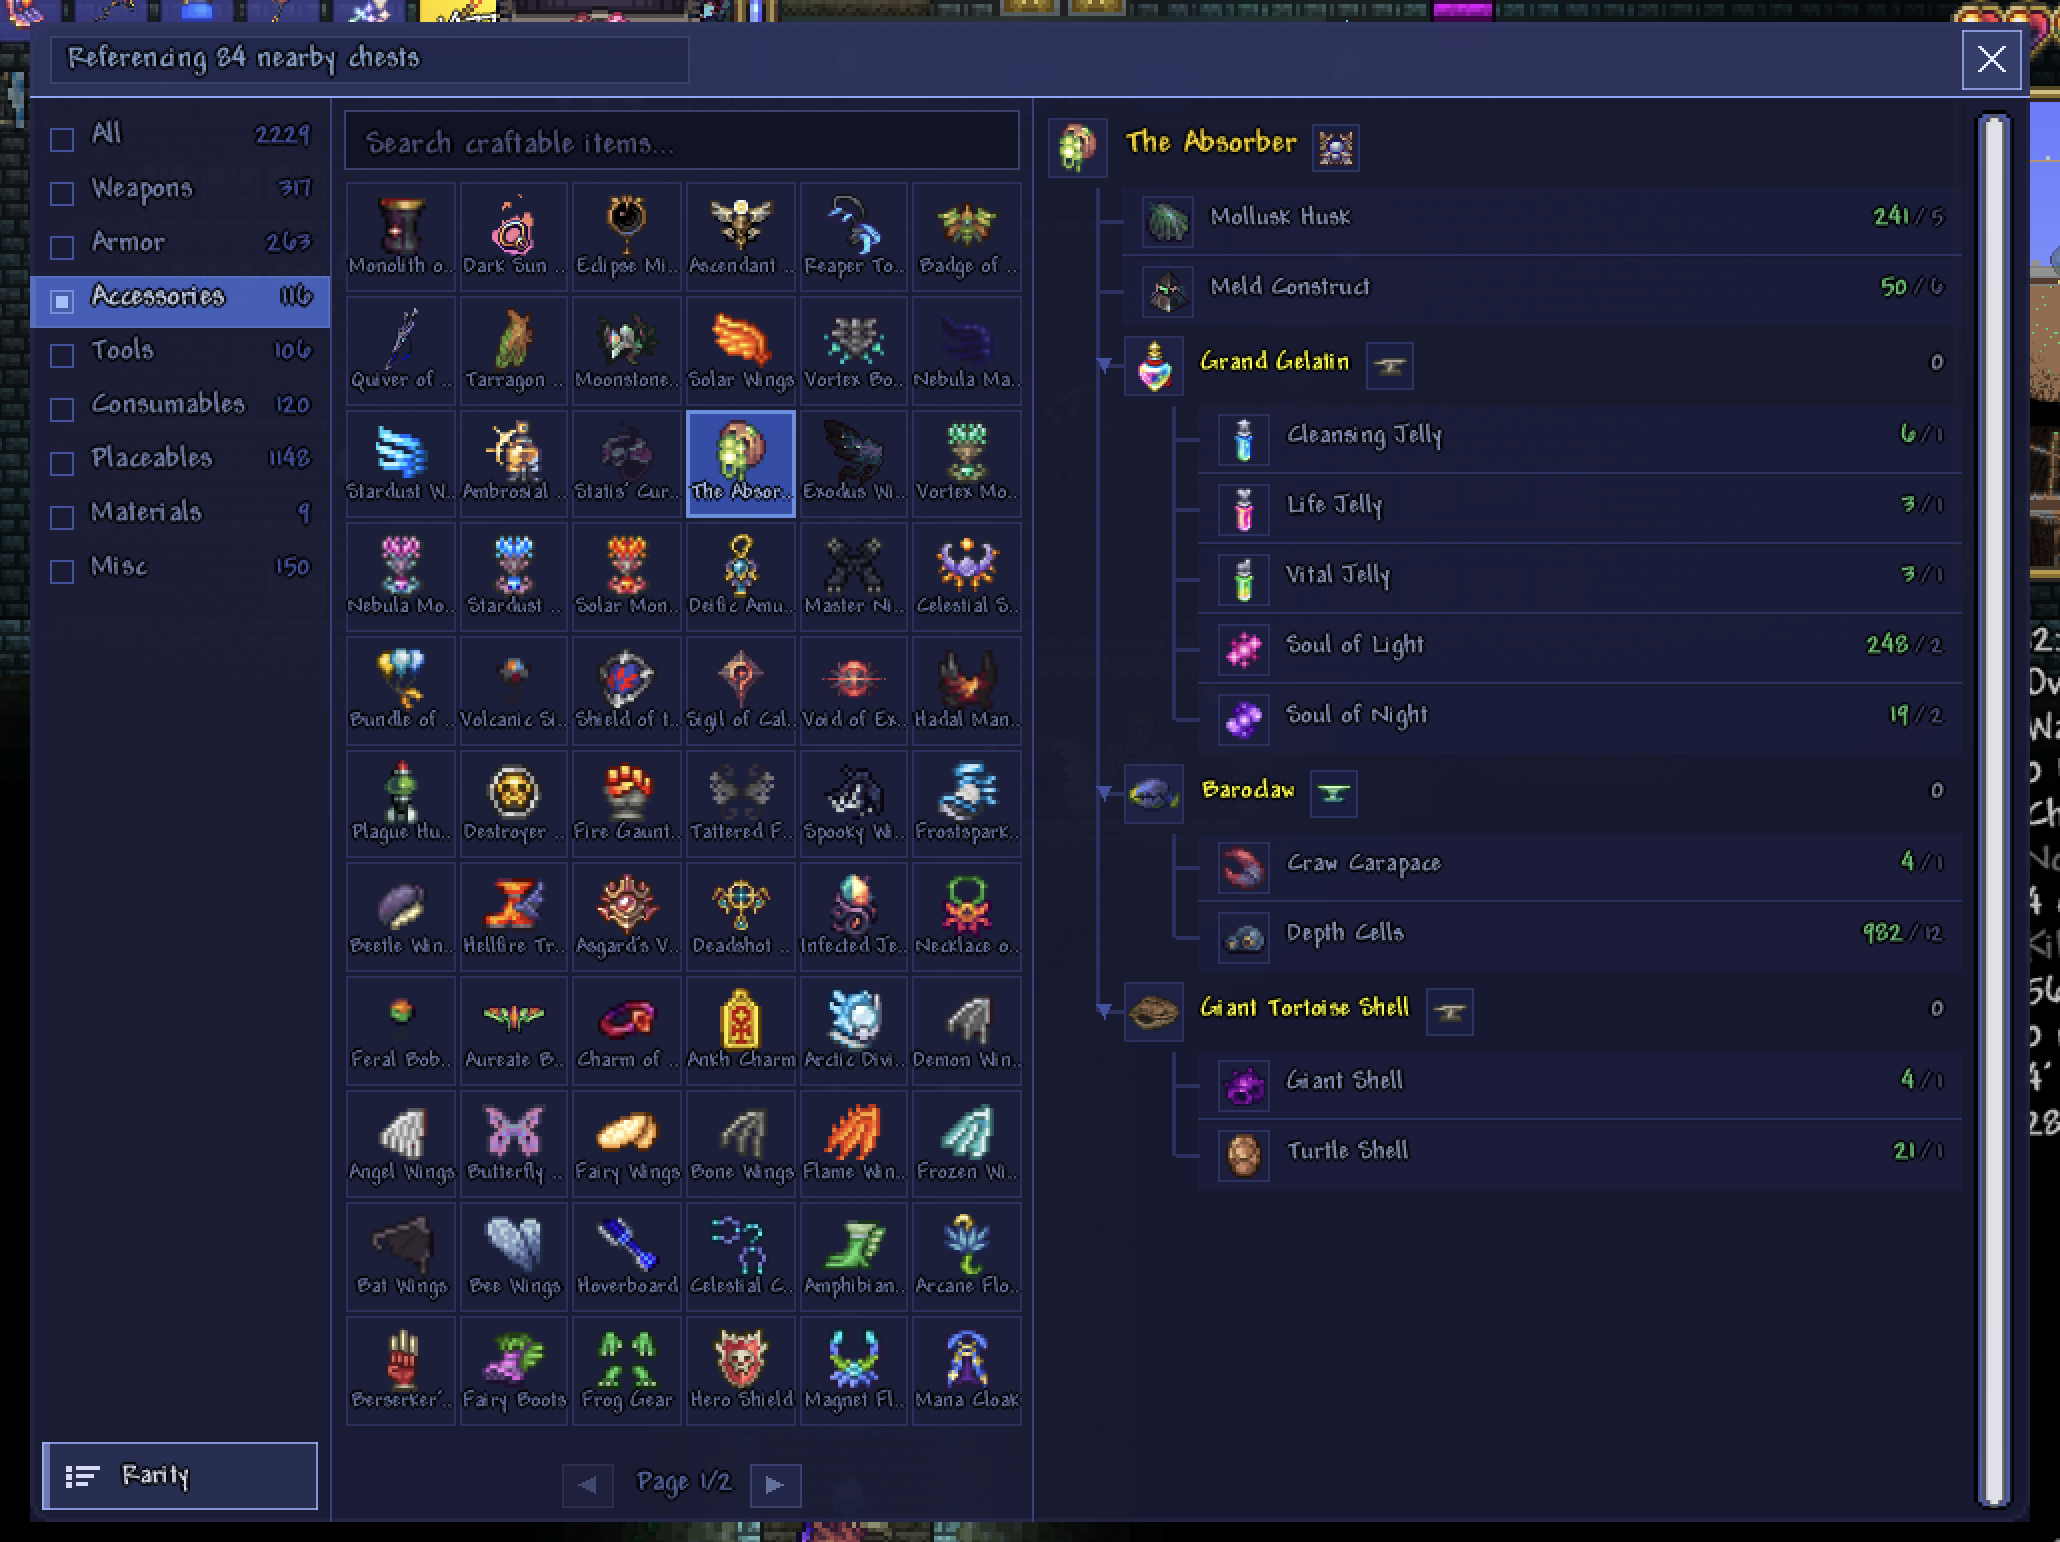
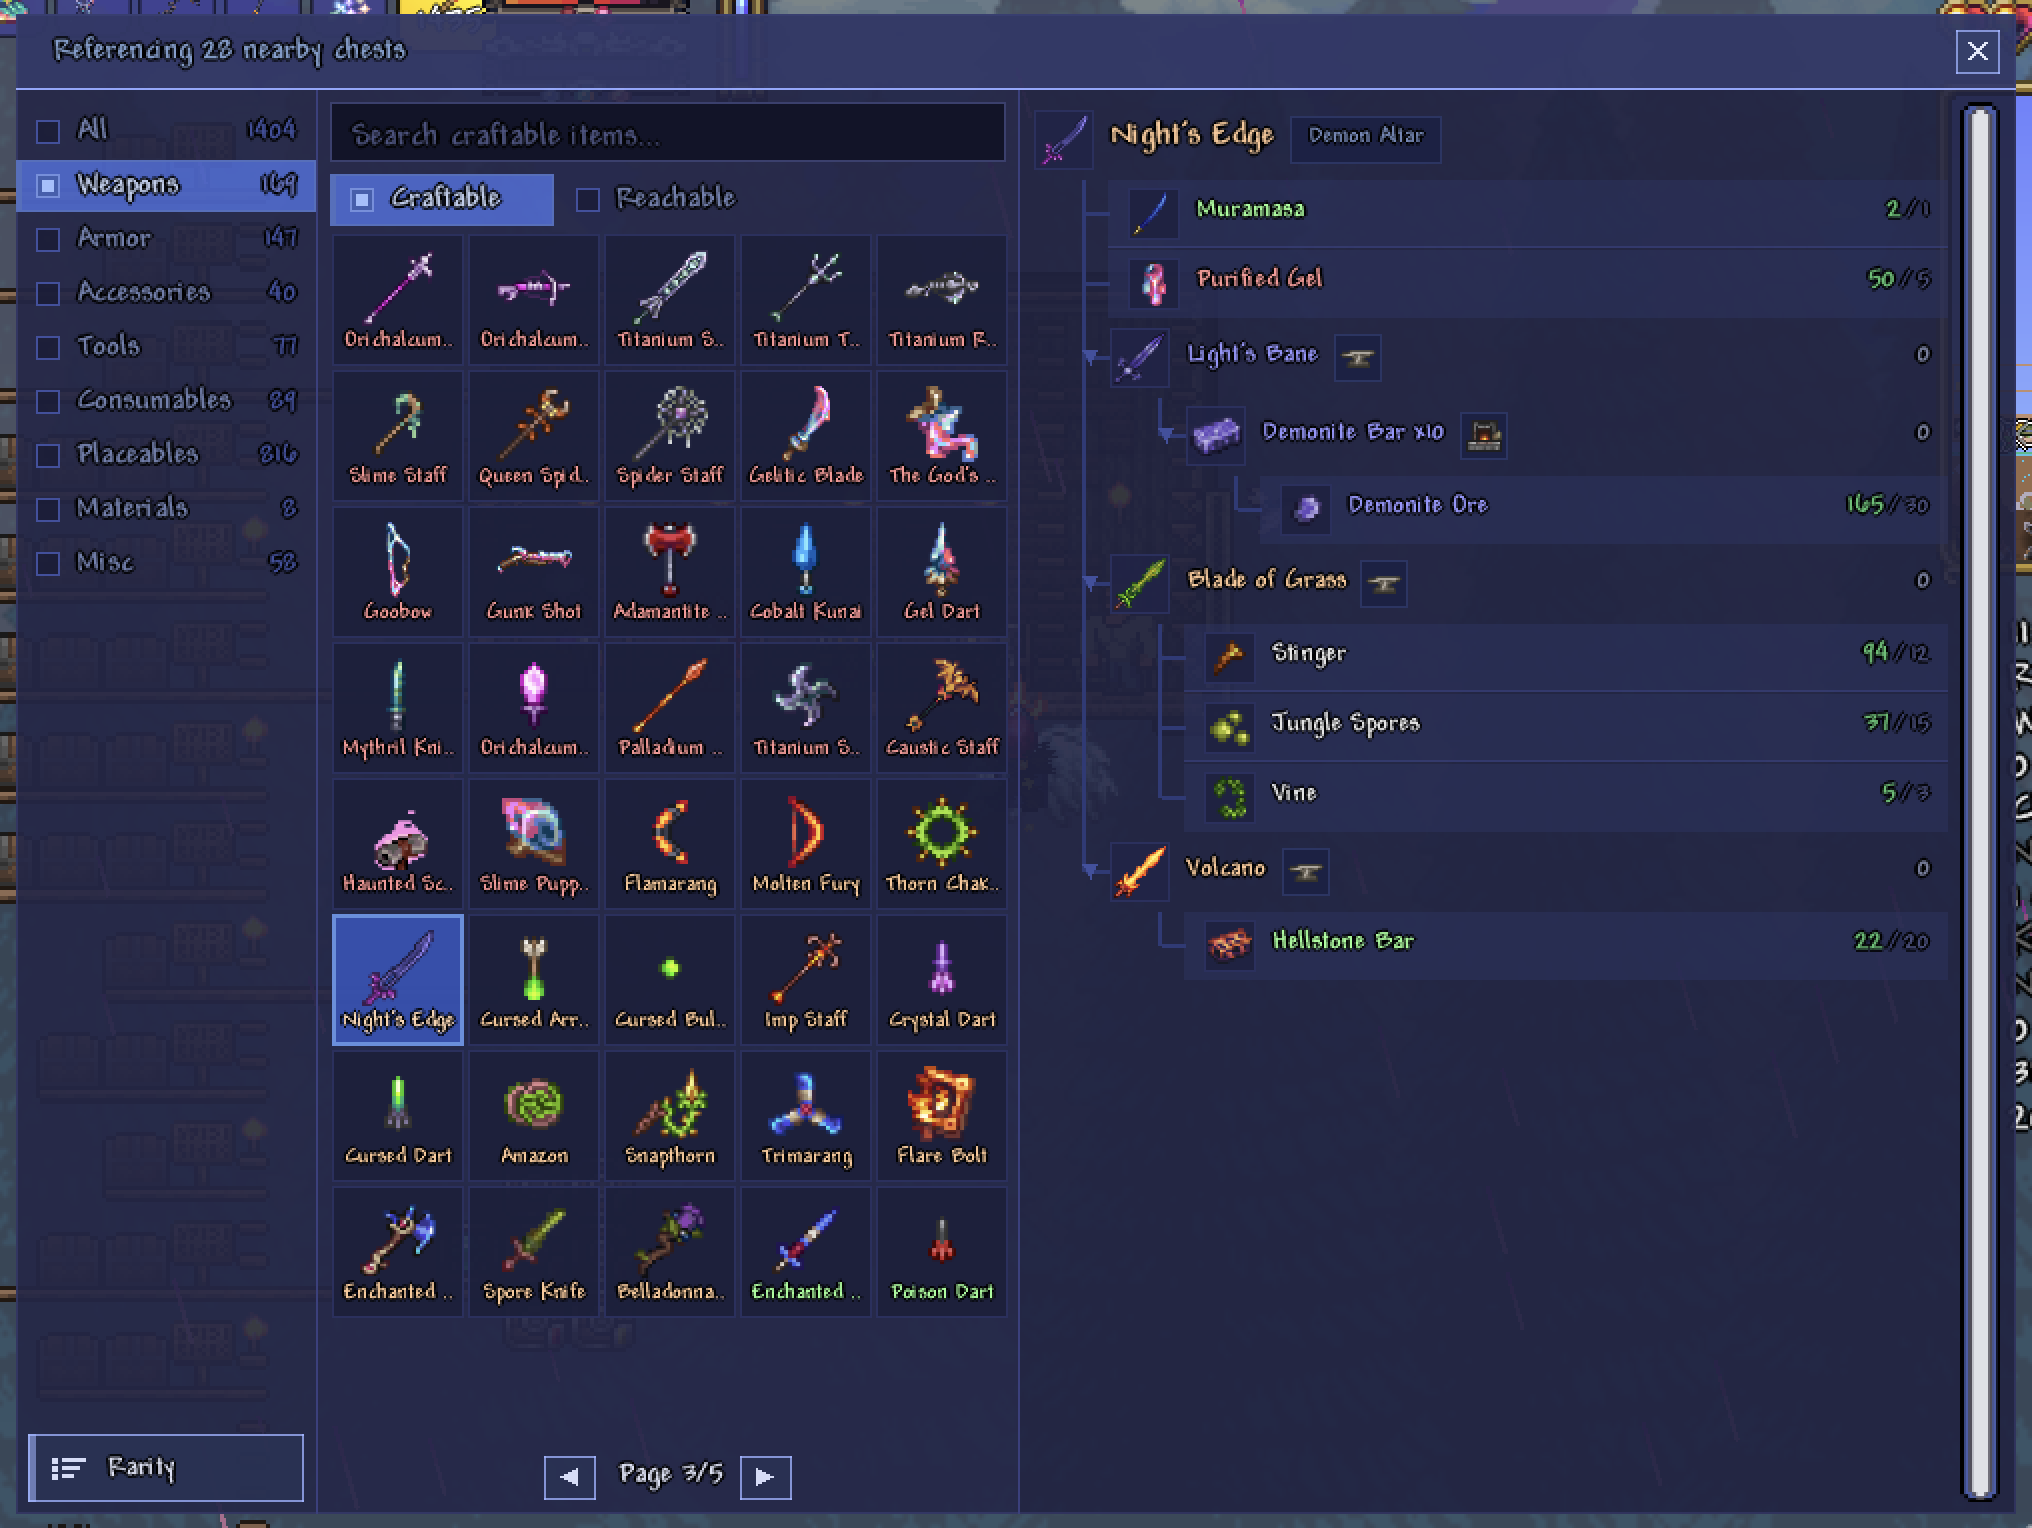
1.1.4 release notes and readme refresh

diff --git a/README.md b/README.md
@@ -2,7 +2,7 @@
 
 A smarter Guide NPC for Terraria. Instead of checking recipes one item at a time, Steroid Guide scans your entire inventory and nearby chests to show you every top-tier item you can craft — including multi-step recipes.
 
-![Craftable items UI with recipe tree](assets/craftable-ui.png)
+![Craftable items UI with category sidebar, Craftable/Reachable toggle, and station labels](assets/craftable-ui.png)
 
 ## The NPC
 
@@ -12,17 +12,19 @@ Steroid Guide is a passive town NPC that spawns when a valid house is available.
 
 ## Features
 
-- **Recursive recipe analysis** — Traces full crafting chains automatically. If you have the raw materials for a Night's Edge (across multiple intermediate crafts), it tells you.
+- **Recursive recipe analysis** — Traces full crafting chains automatically (with cycle detection for self-referential recipes). If you have the raw materials for a Night's Edge — even across multiple intermediate crafts — it tells you.
+- **Two craftability axes** — Switch between *Craftable* (you can craft it right now) and *Reachable* (you have every ingredient type but lack the quantity).
 - **Top-tier item filtering** — Only shows final products, not intermediate steps. If Light's Bane is just a stepping stone to Night's Edge, only Night's Edge appears.
-- **Inventory + chest scanning** — Reads your inventory and all chests visible on screen.
-- **Category filters** — Filter results by Weapons, Armor, Accessories, Potions, Tools, or Misc.
-- **Recipe tree viewer** — Click any item to see its full crafting tree with owned/craftable/missing status for each material.
+- **Inventory + chest scanning** — Reads your inventory and all chests within range.
+- **Category filters** — Filter results by Weapons, Armor, Accessories, Tools, Consumables, Placeables, Materials, or Misc.
+- **Search & sort** — Find items by name or by ingredient name; sort by rarity or name.
+- **Recipe tree viewer** — Click any item to see its full crafting tree with required stations (Demon Altar, Mythril Anvil, etc.) and per-material owned counts.
 - **Universal mod support** — Works with any mod's recipes (Calamity, Thorium, etc.) since it reads from `Main.recipe` at runtime.
 
 ## How It Works
 
-1. **Graph build** (once on mod load) — Builds a directed acyclic graph from all registered recipes. Nodes are items, edges are "is material for" relationships.
-2. **Item scan** (on UI open / inventory change) — Aggregates items from player inventory + on-screen chests into an `itemID → quantity` map.
+1. **Graph build** (once on mod load) — Builds a directed graph from all registered recipes. Nodes are items, edges are "is material for" relationships. Self-referential recipes are handled via cycle detection.
+2. **Item scan** (on UI open / inventory change) — Aggregates items from player inventory + nearby chests into an `itemID → quantity` map.
 3. **Recursive search** — For each item in the game, determines if it's craftable from available materials (directly owned or recursively craftable). Uses memoization and cycle detection.
 4. **Top-tier filter** — From all craftable items, removes any that serve as materials for another craftable item. The remainder are your "best possible" crafts.
 

diff --git a/CHANGELOG.md b/CHANGELOG.md
@@ -5,6 +5,32 @@ When publishing a new version, copy the BBCode block for that release into the *
 
 ---
 
+## v1.1.4
+
+```
+[h2]v1.1.4 — Reachable Mode & Recipe Tree Polish[/h2]
+
+[h3]New Feature[/h3]
+[list]
+[*]New [b]Reachable[/b] mode — filter items where you have at least one of every ingredient type but the quantity is short. Toggle between [i]Craftable[/i] (you can craft it right now) and [i]Reachable[/i] from the buttons above the item grid.
+[/list]
+
+[h3]Recipe Tree[/h3]
+[list]
+[*]Owned/Craftable/Missing status chips have been hidden — the recipe tree now reads as a clean structure, with the per-material owned count shown on every intermediate node (not just craftable ones)
+[*]Recipes with no required station (e.g. Shimmer transmutations) now show their condition as a label on the right (e.g. [i]Near Shimmer[/i])
+[*]Cyclic ingredient rows are now skipped — no more confusing "X/0" leaves caused by self-referential recipes like Plating ↔ Platform
+[*]Fixed vertical text alignment in category and filter rows so labels sit centered in their slots
+[/list]
+
+[h3]UI Polish[/h3]
+[list]
+[*]The main window now uses sharp, flat corners to match the inner column backdrops — no more mixed rounded/flat chrome
+[/list]
+```
+
+---
+
 ## v1.1.3
 
 ```
